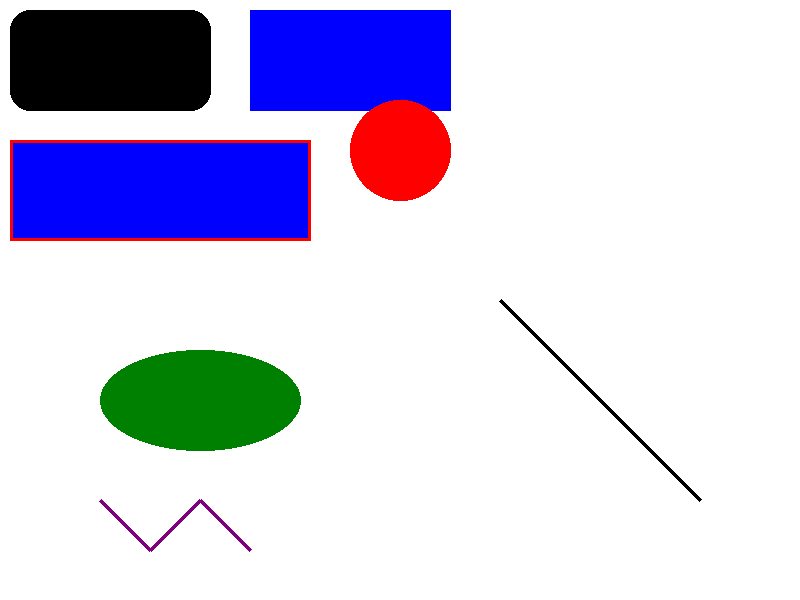
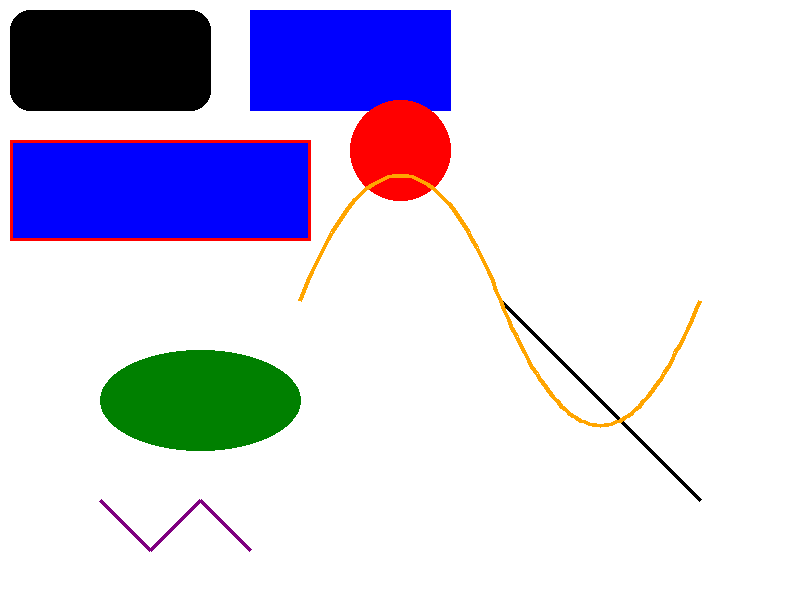
implement rendering path

diff --git a/svg2png/png_renderer.py b/svg2png/png_renderer.py
@@ -1,5 +1,5 @@
-from PIL import Image, ImageDraw
-
+from PIL import Image, ImageDraw, ImagePath
+import re
 
 class PNGRenderer:
     """
@@ -133,31 +133,95 @@ class PNGRenderer:
     # def render_path(self, draw, element):
     #     pass
 
-    # def render_path(self, draw, element):
-    #     """
-    #     Render the path element.
-    #     """
-    #     d = element.get('d', '')  # SVG path data
-    #     fill = element.get('fill', None)
-    #     stroke = element.get('stroke', 'black')
-    #     stroke_width = int(element.get('stroke-width', 1))
-    #
-    #     # Parse the path data
-    #     path = parse_path(d)
-    #
-    #     # Convert the path to a list of points for Pillow
-    #     points = []
-    #     for segment in path:
-    #         if hasattr(segment, 'start'):
-    #             points.append((segment.start.real, segment.start.imag))
-    #         if hasattr(segment, 'end'):
-    #             points.append((segment.end.real, segment.end.imag))
-    #
-    #     # Draw the path as a polygonal approximation
-    #     if fill:
-    #         draw.polygon(points, fill=fill)
-    #     if stroke:
-    #         draw.line(points, fill=stroke, width=stroke_width)
+    def render_path(self, draw, element):
+        """
+        Render the path
+        """
+        path_data = element.get('d', '')  # Get the 'd' attribute, which contains path data
+        fill = element.get('fill', None)  # Fill color
+        stroke = element.get('stroke', None)  # Stroke color
+        stroke_width = int(element.get('stroke-width', 1))  # Stroke width
+
+        # Handle 'none' for fill and stroke
+        if fill == 'none':
+            fill = None
+        if stroke == 'none':
+            stroke = None
+
+        if not path_data:
+            return  # No path data to render
+
+        # Parse the SVG path data
+        path_segments = re.findall(r'([a-zA-Z])|([-+]?[0-9]*\.?[0-9]+(?:[eE][-+]?[0-9]+)?)', path_data)
+
+        current_pos = [0, 0]
+        start_pos = [0, 0]
+        control_point = None  # For smooth Bézier curves
+        path_points = []
+
+        i = 0
+        while i < len(path_segments):
+            segment = path_segments[i]
+
+            if segment[0].isalpha():  # Command
+                command = segment[0]
+                i += 1
+            else:  # Number
+                command = None
+
+            if command == 'M':  # Absolute move to
+                x, y = float(path_segments[i][1]), float(path_segments[i + 1][1])
+                current_pos = [x, y]
+                start_pos = [x, y]
+                path_points.append(tuple(current_pos))
+                i += 2
+
+            elif command == 'L':  # Absolute line to
+                x, y = float(path_segments[i][1]), float(path_segments[i + 1][1])
+                current_pos = [x, y]
+                path_points.append(tuple(current_pos))
+                i += 2
+
+            elif command == 'Q':  # Quadratic Bézier curve
+                x1, y1 = float(path_segments[i][1]), float(path_segments[i + 1][1])
+                x2, y2 = float(path_segments[i + 2][1]), float(path_segments[i + 3][1])
+                path_points.extend(self._quadratic_bezier_curve(current_pos, [x1, y1], [x2, y2]))
+                control_point = [x1, y1]
+                current_pos = [x2, y2]
+                i += 4
+
+            elif command == 'T':  # Smooth quadratic Bézier curve
+                if control_point is None:  # If no previous control point, assume the current position
+                    control_point = current_pos
+
+                # Reflect the control point
+                x1, y1 = 2 * current_pos[0] - control_point[0], 2 * current_pos[1] - control_point[1]
+                x2, y2 = float(path_segments[i][1]), float(path_segments[i + 1][1])
+                path_points.extend(self._quadratic_bezier_curve(current_pos, [x1, y1], [x2, y2]))
+                control_point = [x1, y1]
+                current_pos = [x2, y2]
+                i += 2
+
+            elif command in {'Z', 'z'}:  # Close path
+                path_points.append(tuple(start_pos))
+
+        # Draw the path
+        if fill:
+            draw.polygon(path_points, fill=fill)
+        if stroke:
+            draw.line(path_points, fill=stroke, width=stroke_width)
+
+    def _quadratic_bezier_curve(self, start, control, end, steps=50):
+        """
+        Generate points for a quadratic Bézier curve
+        """
+        points = []
+        for t in range(steps + 1):
+            t /= steps
+            x = (1 - t) ** 2 * start[0] + 2 * (1 - t) * t * control[0] + t ** 2 * end[0]
+            y = (1 - t) ** 2 * start[1] + 2 * (1 - t) * t * control[1] + t ** 2 * end[1]
+            points.append((x, y))
+        return points
 
     def get_image(self):
         """
